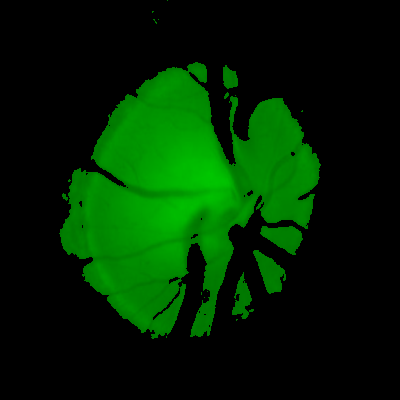
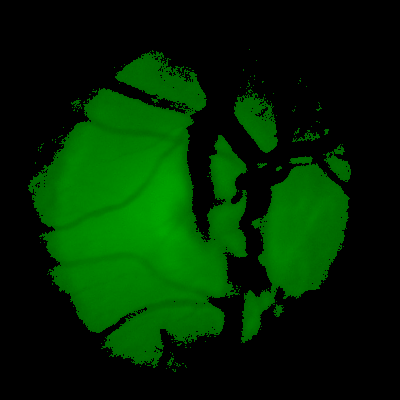
aumento das amostras - imagens da retina

Changed region(s): [[0.06, 0.12, 0.9, 0.93], [0.42, 0.9, 0.45, 0.93]]

diff --git a/main.py b/main.py
@@ -31,7 +31,7 @@ print('executando o k-means')
 #calculando o tempo com kmeans em imagens 400 x 400 cinzas - rodar 30 vzs
 for i in range(3):
     tempo_k_means = timeit.timeit("kmeans_cv2({})".format("'"+lista_400_zinza[i]+"', '/home/nig/PycharmProjects/Segmentation/data/segmentadas/kmeans_400_cinza_"+str(i)+".png'"), setup="from __main__ import kmeans_cv2", number=1)
-    vari = 'execução '+str(i)+' com imagem '+lista_400_zinza[i]+' = '+str(tempo_k_means)
+    vari = 'execução '+str(i)+' com imagem '+lista_400_zinza[i]+' = '+str(tempo_k_means)+' segundos'
     arquivo_kmeans.write(vari+'\n')
 arquivo_kmeans.write('\n\n')
 
@@ -39,7 +39,7 @@ arquivo_kmeans.write('\n\n')
 #calculando o tempo com kmeans em imagens 400 x 400 rgb - rodar 30 vzs
 for i in range(3):
     tempo_k_means = timeit.timeit("kmeans_cv2({})".format("'"+lista_400_rgb[i]+"', '/home/nig/PycharmProjects/Segmentation/data/segmentadas/kmeans_400_rgb_"+str(i)+".png'"), setup="from __main__ import kmeans_cv2", number=1)
-    vari = 'execução '+str(i)+' com imagem '+lista_400_rgb[i]+' = '+str(tempo_k_means)
+    vari = 'execução '+str(i)+' com imagem '+lista_400_rgb[i]+' = '+str(tempo_k_means)+' segundos'
     arquivo_kmeans.write(vari+'\n')
 arquivo_kmeans.write('\n\n')
 
@@ -47,7 +47,7 @@ arquivo_kmeans.write('\n\n')
 #calculando o tempo com kmeans em imagens 800 x 800 cinzas - rodar 30 vzs
 for i in range(3):
     tempo_k_means = timeit.timeit("kmeans_cv2({})".format("'"+lista_800_zinza[i]+"', '/home/nig/PycharmProjects/Segmentation/data/segmentadas/kmeans_800_cinza_"+str(i)+".png'"), setup="from __main__ import kmeans_cv2", number=1)
-    vari = 'execução '+str(i)+' com imagem '+lista_800_zinza[i]+' = '+str(tempo_k_means)
+    vari = 'execução '+str(i)+' com imagem '+lista_800_zinza[i]+' = '+str(tempo_k_means)+' segundos'
     arquivo_kmeans.write(vari+'\n')
 arquivo_kmeans.write('\n\n')
 
@@ -55,7 +55,7 @@ arquivo_kmeans.write('\n\n')
 #calculando o tempo com kmeans em imagens 800 x 800 rgb - rodar 30 vzs
 for i in range(3):
     tempo_k_means = timeit.timeit("kmeans_cv2({})".format("'"+lista_800_rgb[i]+"', '/home/nig/PycharmProjects/Segmentation/data/segmentadas/kmeans_800_rgb_"+str(i)+".png'"), setup="from __main__ import kmeans_cv2", number=1)
-    vari = 'execução '+str(i)+' com imagem '+lista_800_rgb[i]+' = '+str(tempo_k_means)
+    vari = 'execução '+str(i)+' com imagem '+lista_800_rgb[i]+' = '+str(tempo_k_means)+' segundos'
     arquivo_kmeans.write(vari+'\n')
 arquivo_kmeans.write('\n\n')
 
@@ -68,7 +68,7 @@ print('executando o Otsu')
 #calculando o tempo com outsu em imagens 400 x 400 cinzas - rodar 30 vzs
 for i in range(3):
     tempo_otsu = timeit.timeit("binarizando_com_outsu({})".format("'"+lista_400_zinza[i]+"', '/home/nig/PycharmProjects/Segmentation/data/segmentadas/otsu_400_cinza_"+str(i)+".png'"),setup="from __main__ import binarizando_com_outsu", number=1)
-    vari = 'execução '+str(i)+' com imagem '+lista_400_zinza[i]+' = '+str(tempo_otsu)
+    vari = 'execução '+str(i)+' com imagem '+lista_400_zinza[i]+' = '+str(tempo_otsu)+' segundos'
     arquivo_otsu.write(vari+'\n')
 arquivo_otsu.write('\n\n')
 
@@ -76,7 +76,7 @@ arquivo_otsu.write('\n\n')
 #calculando o tempo com outsu em imagens 400 x 400 rgb - rodar 30 vzs
 for i in range(3):
     tempo_otsu = timeit.timeit("binarizando_com_outsu({})".format("'"+lista_400_rgb[i]+"', '/home/nig/PycharmProjects/Segmentation/data/segmentadas/otsu_400_rgb_"+str(i)+".png'"),setup="from __main__ import binarizando_com_outsu", number=1)
-    vari = 'execução '+str(i)+' com imagem '+lista_400_rgb[i]+' = '+str(tempo_otsu)
+    vari = 'execução '+str(i)+' com imagem '+lista_400_rgb[i]+' = '+str(tempo_otsu)+' segundos'
     arquivo_otsu.write(vari+'\n')
 arquivo_otsu.write('\n\n')
 
@@ -86,7 +86,7 @@ for i in range(3):
     tempo_otsu = timeit.timeit("binarizando_com_outsu({})".format(
         "'" + lista_800_zinza[i] + "', '/home/nig/PycharmProjects/Segmentation/data/segmentadas/otsu_800_cinza_" + str(
             i) + ".png'"), setup="from __main__ import binarizando_com_outsu", number=1)
-    vari = 'execução ' + str(i) + ' com imagem ' + lista_800_zinza[i] + ' = ' + str(tempo_otsu)
+    vari = 'execução ' + str(i) + ' com imagem ' + lista_800_zinza[i] + ' = ' + str(tempo_otsu)+' segundos'
     arquivo_otsu.write(vari + '\n')
 arquivo_otsu.write('\n\n')
 
@@ -96,7 +96,7 @@ for i in range(3):
     tempo_otsu = timeit.timeit("binarizando_com_outsu({})".format(
         "'" + lista_800_rgb[i] + "', '/home/nig/PycharmProjects/Segmentation/data/segmentadas/otsu_800_rgb_" + str(
             i) + ".png'"), setup="from __main__ import binarizando_com_outsu", number=1)
-    vari = 'execução ' + str(i) + ' com imagem ' + lista_800_rgb[i] + ' = ' + str(tempo_otsu)
+    vari = 'execução ' + str(i) + ' com imagem ' + lista_800_rgb[i] + ' = ' + str(tempo_otsu)+' segundos'
     arquivo_otsu.write(vari + '\n')
 arquivo_otsu.write('\n\n')
 

diff --git a/process_for_test.py b/process_for_test.py
@@ -12,16 +12,16 @@ def histograma(path_imagem):
     plt.show()
 
 def redimensionando(path_img, id, altura, largura):
-    ''' 
+    '''
     '''
 
-    if id < 16: #rgb
+    if id < 31: #rgb
         path_saida = os.getcwd() + '/data/imagens/retina/' + str(altura) + '/rgb/'
         img = cv2.imread(path_img)  # lê
         img = cv2.resize(img, (largura, altura))  # redimensiona
         cv2.imwrite(path_saida + str(id + 1) + '.png', img)  # salva
 
-    if id > 15:  # cinza
+    if id > 30:  # cinza
         path_saida = os.getcwd() + '/data/imagens/retina/' + str(altura) + '/cinza/'
         img = cv2.imread(path_img,0)  # lê
         img = cv2.resize(img, (largura, altura))  # redimensiona
@@ -29,18 +29,19 @@ def redimensionando(path_img, id, altura, largura):
 
 
 def get_imagens(path_imgs):
+    resolucao = 800
     lista_imagens = glob.glob(pathname=path_imgs)
     for i in range(len(lista_imagens)):
-        if i < 31:
-            print(i, ' processando imagem ', lista_imagens[i])
+        if i < 61:
+            print(i, ' processando imagem ', resolucao, 'x', resolucao, ' <> ' , lista_imagens[i])
             redimensionando(path_img=lista_imagens[i],
                             id=i,
-                            altura=800,
-                            largura=800)
+                            altura=resolucao,
+                            largura=resolucao)
 
 
 
 if __name__ == '__main__':
     ''
-    #get_imagens(path_imgs='/media/nig/Files - ext4/dataset-lippo/RIM ONE/Normal/img/*.bmp')
-    histograma('/home/nig/PycharmProjects/Segmentation/data/imagens/natureza/fiolha.jpg')
+    get_imagens(path_imgs='/media/nig/Files - ext4/dataset-lippo/RIM ONE/Normal/img/*.bmp')
+    #histograma('/home/nig/PycharmProjects/Segmentation/data/imagens/natureza/fiolha.jpg')
